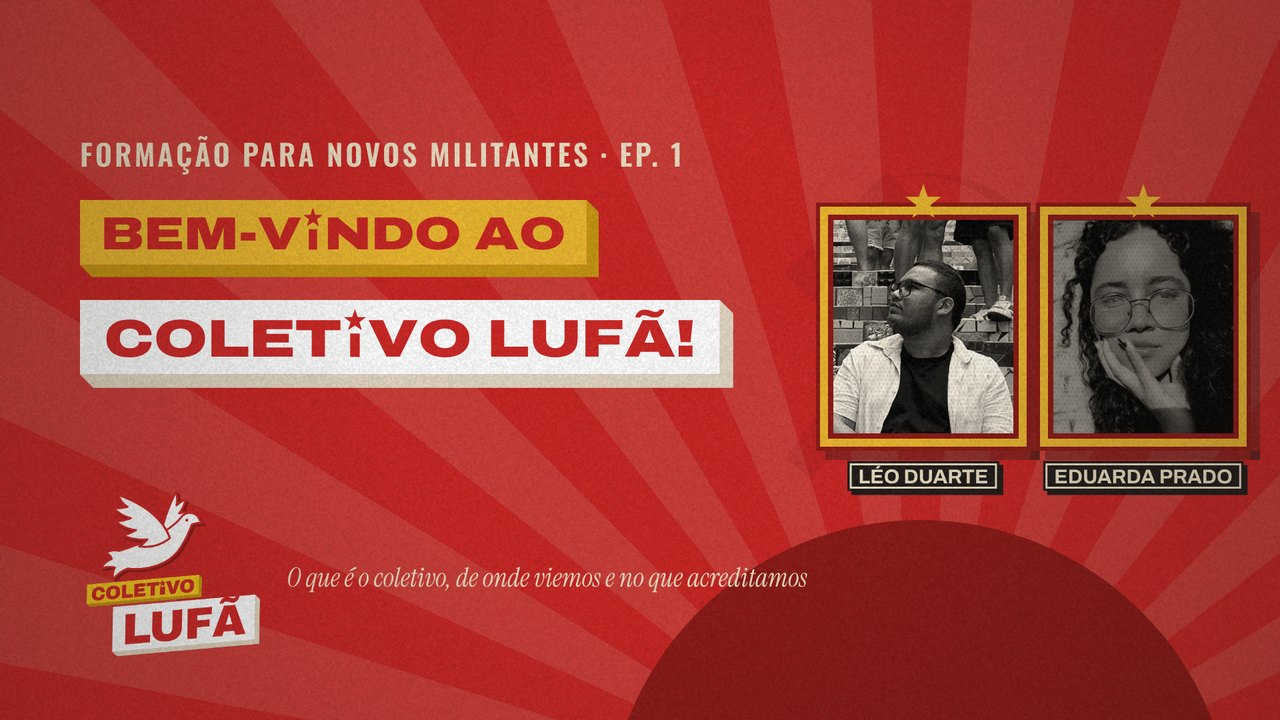
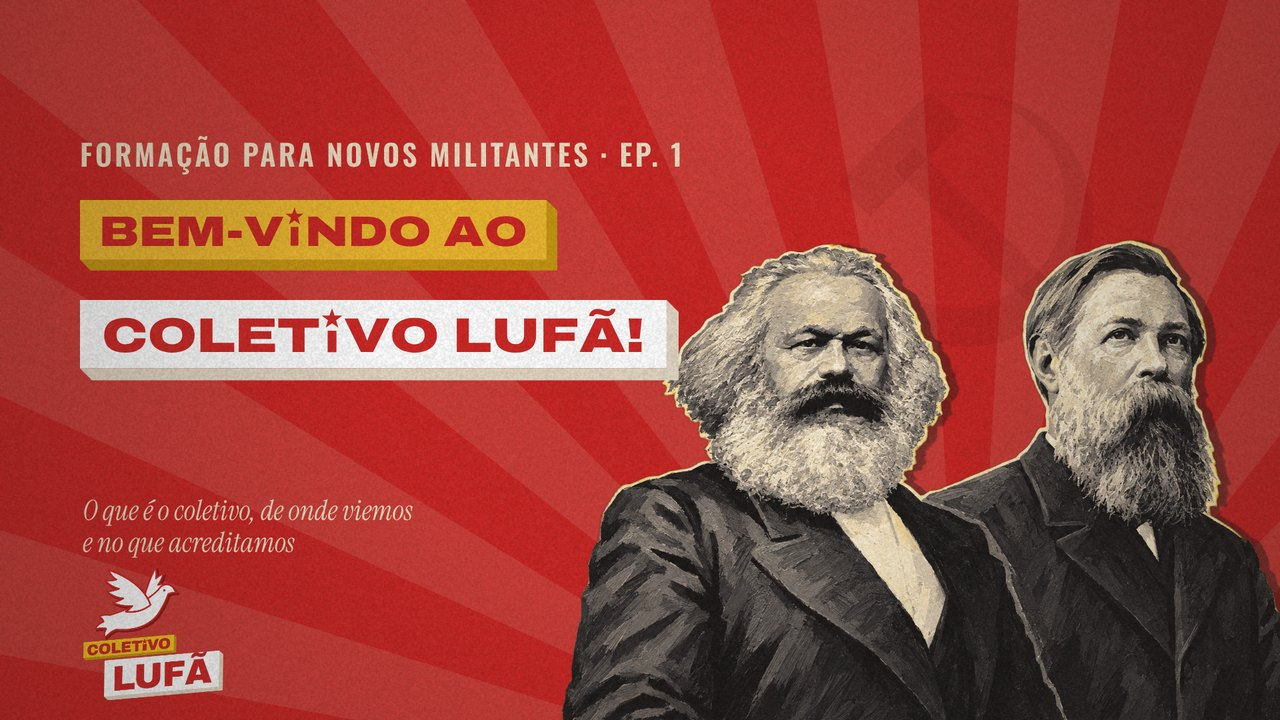
Formação: capa nova do EP. 1 (Marx e Engels)
Claude-Session: https://claude.ai/code/session_01XvS1r1Gp7ocaMFhNz8QkPF

diff --git a/assets/militante.js b/assets/militante.js
@@ -405,7 +405,7 @@ $("janela-carteira").addEventListener("click", (ev) => { if (ev.target === $("ja
 // O progresso fica na conta (tabela formacao_progresso, supabase/32-formacao.sql) e, de reserva, no aparelho.
 // Para publicar um episódio novo: preencha "video" e "capa" dele aqui.
 const FORMACAO = [
-  { id: "novos-01", titulo: "Bem-vindo ao Coletivo Lufã!", video: "formacao/videos/novos-ep01.mp4", capa: "formacao/capas/novos-ep01.jpg" },
+  { id: "novos-01", titulo: "Bem-vindo ao Coletivo Lufã!", video: "formacao/videos/novos-ep01.mp4", capa: "formacao/capas/novos-ep01.jpg?v=2" },
   { id: "novos-02", titulo: "O que é ser um militante ativo?", video: "", capa: "" },
   { id: "novos-03", titulo: "A Área do Militante e a organização dos núcleos", video: "", capa: "" },
 ];

diff --git a/militante.html b/militante.html
@@ -393,6 +393,6 @@
 <script src="https://cdn.jsdelivr.net/npm/@supabase/supabase-js@2.49.4/dist/umd/supabase.min.js"></script>
 <script src="assets/comum.js?v=23"></script>
 <script src="assets/supa.js?v=8"></script>
-<script src="assets/militante.js?v=23"></script>
+<script src="assets/militante.js?v=24"></script>
 </body>
 </html>
